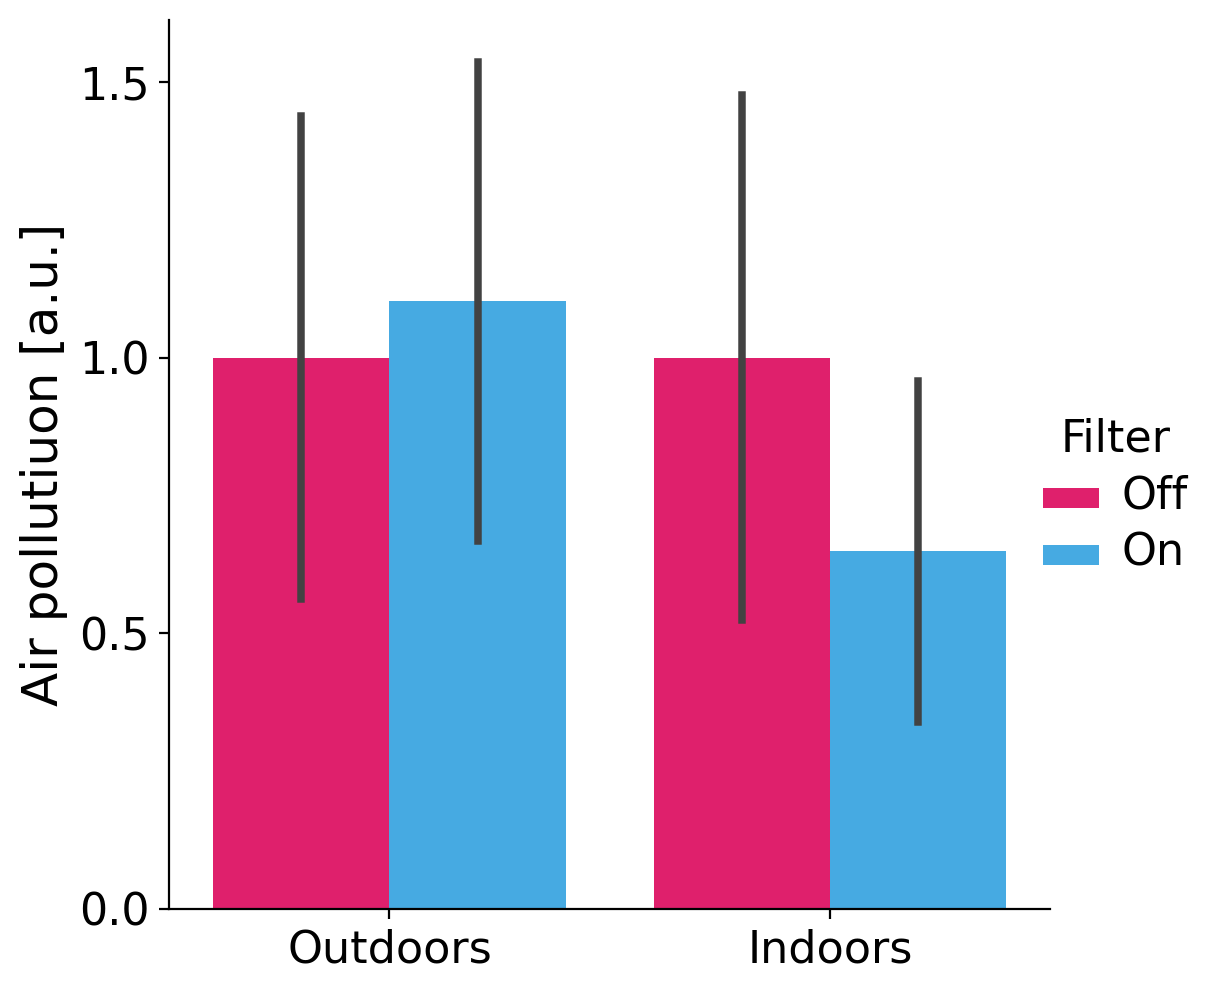
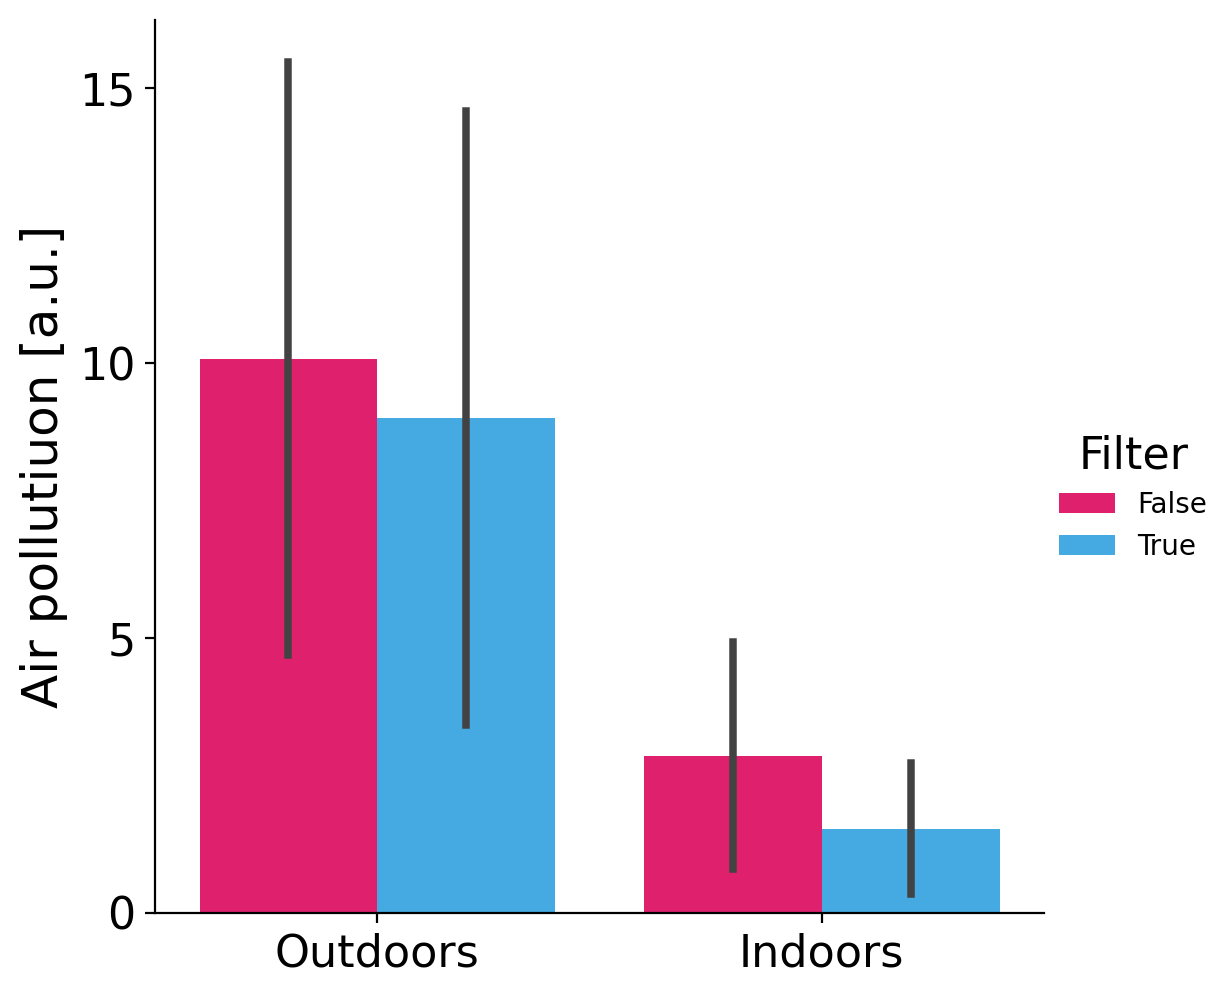
WIP: Use external data with 1-hour resolution (from official measurement station).

diff --git a/py_air_quality/analysis/analysis_filter_effect_berlinluftdaten.py b/py_air_quality/analysis/analysis_filter_effect_berlinluftdaten.py
@@ -1,0 +1,235 @@
+#!/usr/bin/env python3
+# -*- coding: utf-8 -*-
+"""
+WORK IN PROGRESS
+
+Test for the effect of an air purifier (filter) on indoor air quality.
+
+To assess the effect of the filter, we combine data from external & internal
+sources for analysis. The external data are hourly measurements from an outdoor
+measurement station (obtained from luftdaten.berlin.de). The internal data
+source is an SDS011 particulate sensor.
+
+The data is read data from csv files, processed, and plots are created.
+Processed data is exported for further analysis in R.
+
+"""
+
+import os
+
+import pandas as pd
+import seaborn as sns
+from datetime import datetime, timedelta, time
+
+from read_csv_data import read_csv_data
+
+
+# ------------------------------------------------------------------------------
+# *** Define paths
+
+# Path of indoor air quality measurement - baseline without air filter:
+path_csv_indoor_baseline = '/home/john/PhD/GitHub/py-air-quality/py_air_quality/data/measurement_baseline.csv'
+
+# Path of indoor air quality measurement - with air filter:
+path_csv_indoor_filter = '/home/john/PhD/GitHub/py-air-quality/py_air_quality/data/measurement_with_filter.csv'
+
+# Path of external air quality measurement data, obtained from
+# https://luftdaten.berlin.de/station/overview/active/
+path_csv_external = '/media/ssd_dropbox/Dropbox/Raspberry_Pi/air_quality_external_data/ber_mc042_20210414-20210712.csv'
+
+# Output directory for plot & processed csv files (to be imported into R for
+# analysis):
+path_out = '/home/john/PhD/GitHub/py-air-quality/py_air_quality/data/'
+
+# Which pollutant to analyse ('pm25' or 'pm10'):
+pollutant = 'pm25'
+
+
+# ------------------------------------------------------------------------------
+# *** Read data from external data source
+
+# Read and process data from external source (official outdoor measurement
+# station).
+df_external = pd.read_csv(path_csv_external, sep=';', skiprows=3)
+
+df_external = df_external.rename(
+    columns={'Messzeit (Angaben in MESZ bzw. MEZ)': 'time_string',
+             'Stundenwerte': 'pm10',
+             'Stundenwerte.1': 'pm25',
+             }
+    )
+
+date_format = '%d.%m.%Y %H:%M'
+df_external['datetime'] = [datetime.strptime(x, date_format)
+                           for x in df_external['time_string'].tolist()]
+
+# Datetime comparisons are error-prone with pandas; rather use epoch timestamp.
+df_external['timestamp'] = \
+    [round(x.timestamp()) for x in df_external['datetime'].tolist()]
+
+# Only keep the pollutant to be analysed ('pm25' or 'pm10'):
+df_external = df_external[['timestamp', pollutant]]
+df_external = df_external.rename(columns={pollutant: (pollutant + '_external')})
+
+
+# ------------------------------------------------------------------------------
+# *** Read data from internal data source
+
+# Read internal measurement data from csv file:
+df_baseline = read_csv_data(path_csv_indoor_baseline)
+df_filter = read_csv_data(path_csv_indoor_filter)
+
+# Concatenate data from internal source (i.e. both control condition without
+# filter, and experimental condition with filter:
+df_baseline['filter'] = False
+df_filter['filter'] = True
+df_internal = pd.concat([df_baseline, df_filter], axis=0, ignore_index=True)
+
+df_internal = \
+    df_internal[['timestamp', 'datetime', pollutant, 'filter']]
+df_internal = df_internal.rename(columns={pollutant: (pollutant + '_internal')})
+
+
+# ------------------------------------------------------------------------------
+# *** Merge internal & external data
+
+# Round date to hours, so that we can calculate mean pollutant concentration per
+# hour; solution from https://stackoverflow.com/a/48938464/13386040
+def _hour_rounder(t):
+    # Rounds to nearest hour by adding a timedelta hour if minute >= 30
+    r = (t.replace(second=0, microsecond=0, minute=0, hour=t.hour)
+         +timedelta(hours=t.minute//30)
+         )
+    return r
+
+df_internal['datetime_hour'] = [
+    _hour_rounder(x) for x in df_internal['datetime'].tolist()
+    ]
+
+# The external data only has a temporal resolution of one measurement per hour.
+# For comparison, take the mean across each hour for the internal data.
+df_internal_hourly = df_internal.groupby(['datetime_hour']).mean()
+df_internal_hourly = df_internal_hourly.reset_index(level=0, drop=False)
+
+# Remove datapoint where condition changed from no filter to filter:
+df_internal_hourly = \
+    df_internal_hourly.loc[df_internal_hourly['filter'].isin([0.0, 1.0])]
+
+# Reset the timestamp to integer to be able to merge internal & external data on
+# timestamp:
+df_internal_hourly['timestamp'] = \
+    [round(x.timestamp()) for x in df_internal_hourly['datetime_hour'].tolist()]
+
+# Merge internal and external data (with hourly temporal resolution):
+df_internal_hourly = df_internal_hourly.sort_values('timestamp')
+df_external = df_external.sort_values('timestamp')
+df_hourly = pd.merge_asof(
+    df_internal_hourly,
+    df_external[['timestamp', 'pm25_external']],
+    on='timestamp',
+    direction='nearest',
+    )
+
+# Wide to long format:
+
+df_tmp_ext = \
+    df_hourly[['datetime_hour', 'timestamp', 'pm25_external', 'filter']]
+df_tmp_ext = df_tmp_ext.rename(columns={'pm25_external': pollutant})
+df_tmp_ext['source'] = 'external'
+
+df_tmp_int = \
+    df_hourly[['datetime_hour', 'timestamp', 'pm25_internal', 'filter']]
+df_tmp_int = df_tmp_int.rename(columns={'pm25_internal': pollutant})
+df_tmp_int['source'] = 'internal'
+
+df_hourly = pd.concat([df_tmp_ext, df_tmp_int], axis=0, ignore_index=True)
+
+# ------------------------------------------------------------------------------
+# *** Bar graph
+
+colours = [
+    [float(x) / 255.0 for x in [255, 0, 102, 255]],
+    [float(x) / 255.0 for x in [44, 178, 252, 255]],
+    ]
+
+
+graph = sns.catplot(
+    data=df_hourly,
+    kind='bar',
+    x='source',
+    y='pm25',
+    hue='filter',
+    ci='sd',
+    palette=colours,
+    )
+
+# Axis layout:
+graph.axes[0][0].set_xlabel(None)
+graph.axes[0][0].set_ylabel('Air pollutiuon [a.u.]', fontsize=18)
+graph.axes[0][0].set_yticks([0.0, 5.0, 10.0, 15.0])
+graph.axes[0][0].set_xticklabels(['Outdoors', 'Indoors'])
+graph.axes[0][0].tick_params(labelsize=16)
+
+# Adjust legend:
+graph.legend.set_title('Filter', prop={'size': 16})
+for i in range(2):
+    legend_text = graph.legend.texts[i].get_text()
+    if legend_text == '0.0':
+        graph.legend.texts[i].set_text('Off')
+        graph.legend.texts[i].set_fontsize(16)
+    elif legend_text == '1.0':
+        graph.legend.texts[i].set_text('On')
+        graph.legend.texts[i].set_fontsize(16)
+
+# Save figure:
+graph.savefig(os.path.join(path_out, 'filter_bar_plot.png'),
+               dpi=200.0,
+               bbox_inches='tight',
+               )
+
+
+# ------------------------------------------------------------------------------
+# *** Line plot
+
+
+# TODO
+
+df_hourly[pollutant] = df_hourly[pollutant].rolling(24, min_periods=1).mean()
+
+
+graph = sns.lineplot(
+    x='datetime_hour',
+    y=pollutant,
+    hue='source',
+    style='filter',
+    data=df_hourly,
+    palette=colours,
+    ci=None,
+    )
+
+
+# ------------------------------------------------------------------------------
+# *** Merge data from external & internal data source
+
+df_internal = df_internal.sort_values('timestamp')
+df_external = df_external.sort_values('timestamp')
+
+# Merge data from external & internal data source on epoch timestamp, using the
+# nearest available datapoint from external measurement (which has lower
+# temporal resolution).
+df = pd.merge_asof(
+    df_internal,
+    df_external,
+    on='timestamp',
+    direction='nearest',
+    )
+
+# Exclude nan:
+df = df[df['pm25_internal'].notna()]
+df = df[df['pm25_external'].notna()]
+
+df.to_csv(
+    os.path.join(path_out, 'preprocessed.csv'),
+    sep=';',
+    index=False,
+    )
